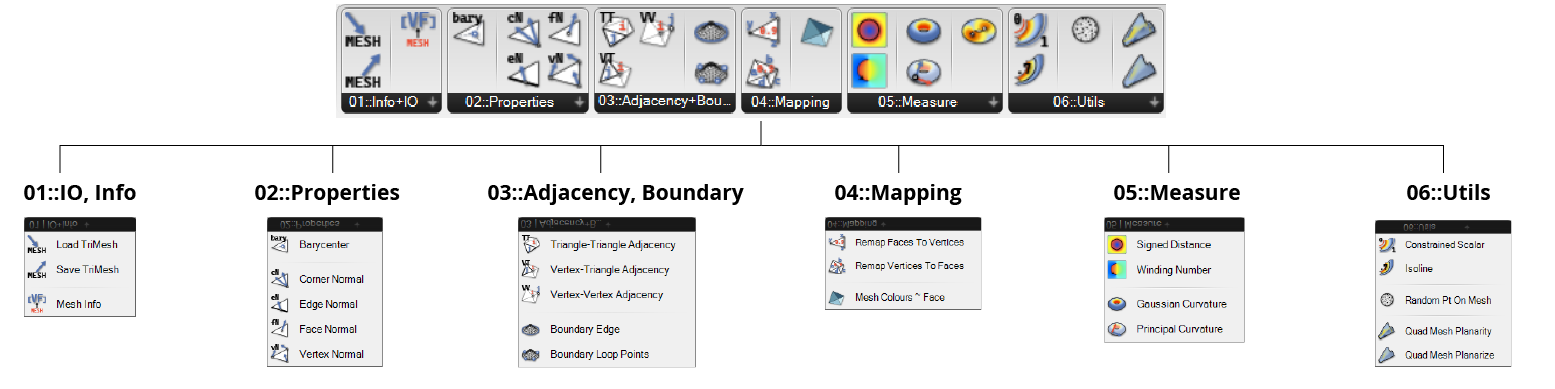
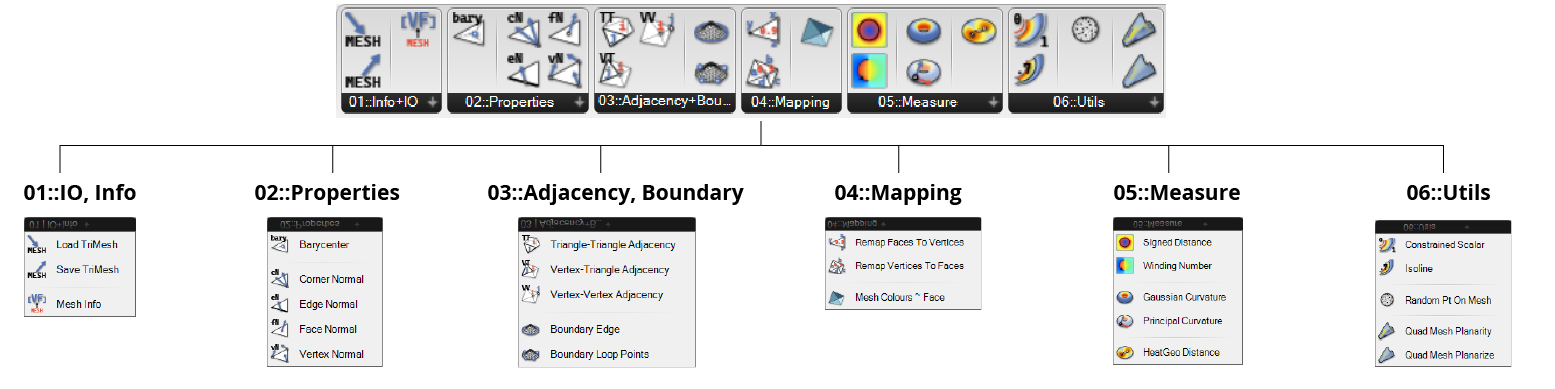
update title img and readme.

Changed region(s): [[0.71, 0.5553, 0.8026, 0.9254]]

diff --git a/.github/README.md b/.github/README.md
@@ -49,6 +49,10 @@ The library features tools for extracting both low-level information (e.g. verte
 
 <details><summary> More (Click to expand!)... </summary>
 
+#### fast geodesic distance
+![Heat Geodesics](https://raw.githubusercontent.com/xarthurx/IG-Mesh/master/graphics/showcase_heatGeodesic.png)
+
+
 #### mesh isoline
 ![Mesh Isoline](https://raw.githubusercontent.com/xarthurx/IG-Mesh/master/graphics/showcase_isoline.png)
 
